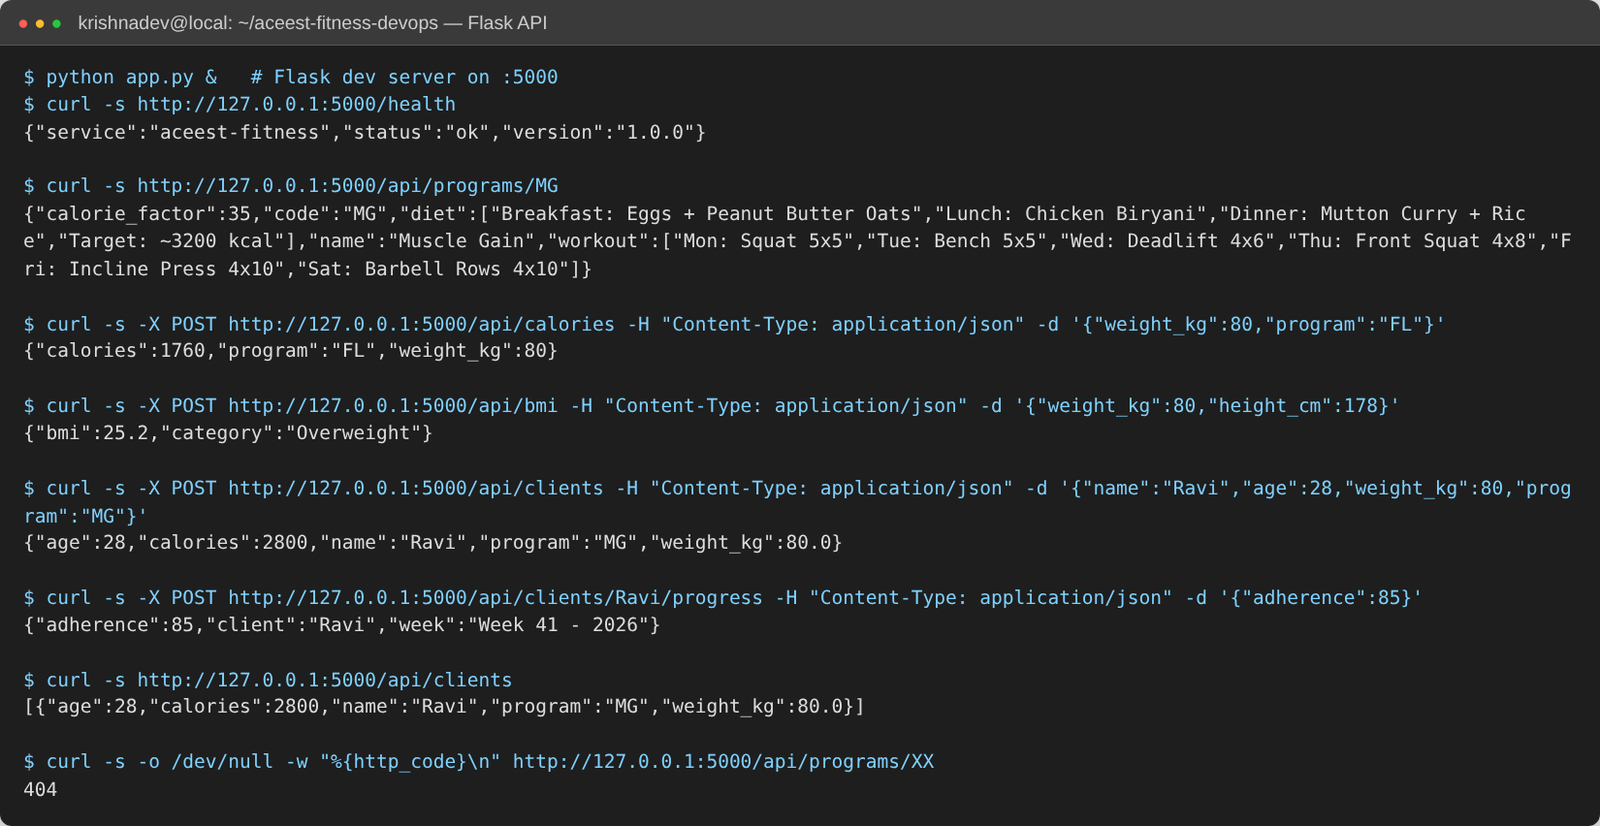
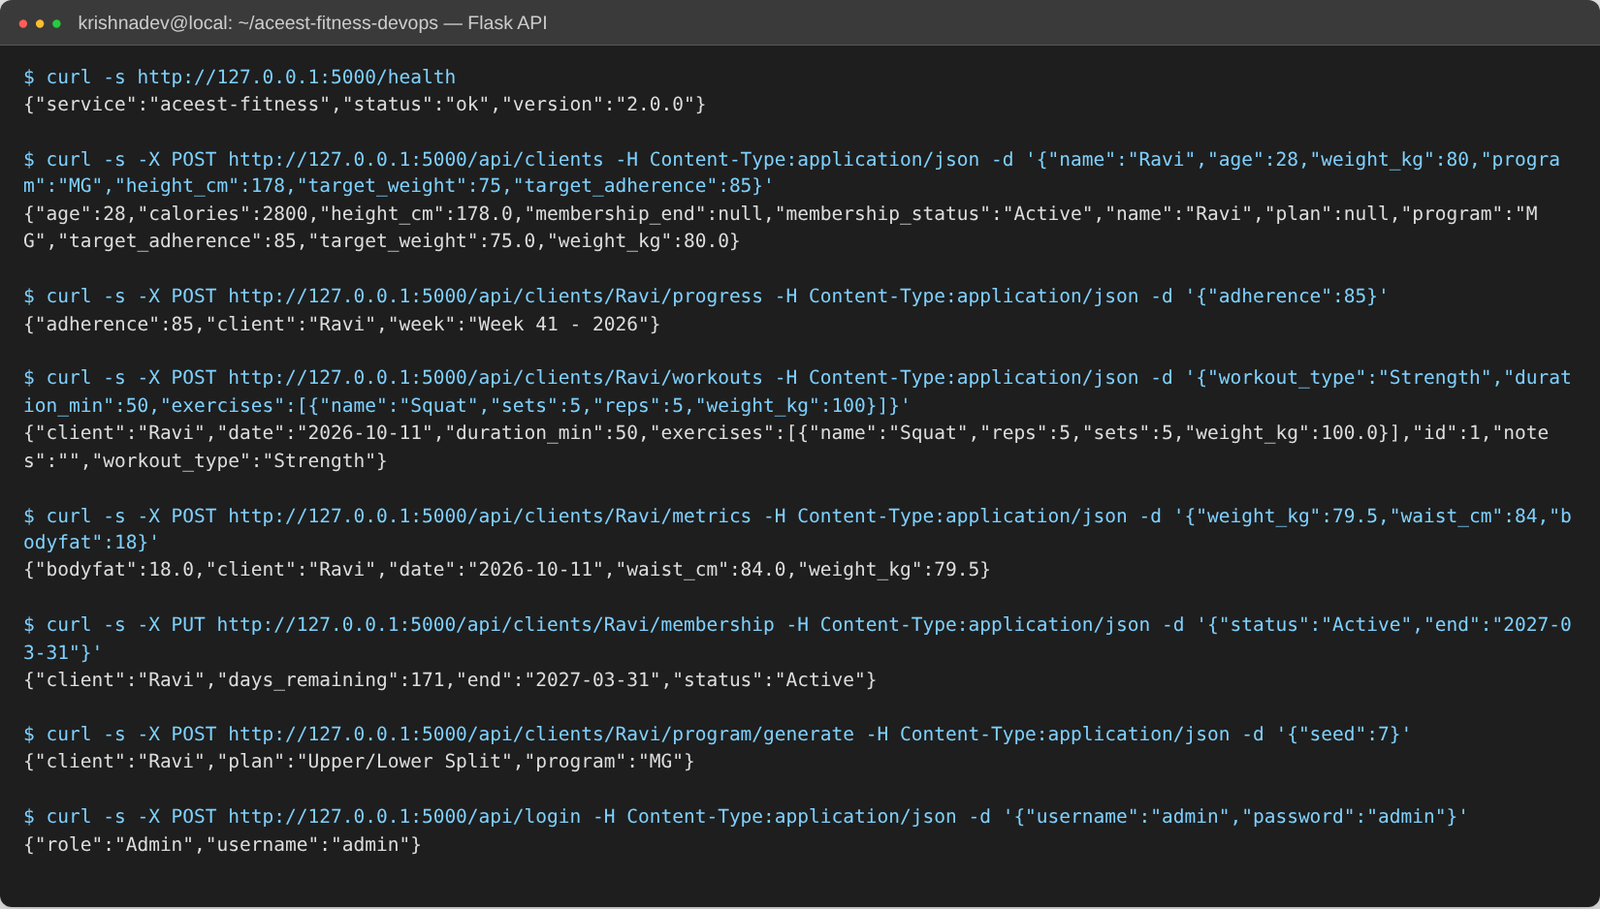
docs: refresh local run evidence for v2.0.0

diff --git a/docs/evidence/home.html b/docs/evidence/home.html
@@ -10,7 +10,7 @@
          margin-bottom:16px}
  h2{color:#d4af37;margin-top:4px} code{color:#d4af37}
 </style></head><body>
-<header><h1>ACEest Functional Fitness</h1><small>v1.0.0</small></header>
+<header><h1>ACEest Functional Fitness</h1><small>v2.0.0</small></header>
 <main>
 
 <section>
@@ -36,5 +36,6 @@
    Break-even: 250 members</p>
 <p>JSON API: <code>/health</code>, <code>/api/programs</code>,
    <code>/api/calories</code>, <code>/api/bmi</code>,
-   <code>/api/clients</code></p>
+   <code>/api/clients</code> (progress, workouts, metrics, membership,
+   program generator, report), <code>/api/login</code></p>
 </main></body></html>

diff --git a/README.md b/README.md
@@ -207,14 +207,19 @@ Compile check and flake8 — no issues:
 
 ![Compile and lint](docs/screenshots/07-local-compile-and-lint.png)
 
-Pytest — **51 passed, 98 % coverage of `app.py`**:
+Pytest — **87 passed, 99 % coverage of `app.py`**:
 
-![Pytest](docs/screenshots/08-local-pytest-51-passed.png)
+![Pytest](docs/screenshots/08-local-pytest-passed.png)
 
-Flask service answering real requests (health, programs, calories, BMI,
-clients, progress and a 404 for an unknown program):
+Flask service answering real requests (client with goals, weekly progress,
+workout with exercises, body metrics, membership, program generator, login):
 
 ![API calls](docs/screenshots/09-local-flask-api-calls.png)
+
+Client report (BMI, goals, adherence, workouts, last metrics, membership) and
+CSV export:
+
+![Report and CSV](docs/screenshots/09b-local-client-report-and-csv.png)
 
 Home page served at `http://127.0.0.1:5000/`:
 
